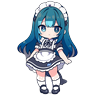
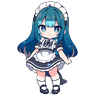
v0.10.6：修双眼颜色不一致——v0.10.5 发色映射护栏 x≤460 越界，右眼虹膜(x460-505)被当侧发染深；护栏扩至 x≤530（仅可外扩不可内收），从 _0000X_ 编号文件还原 30 张 pre-map 源图后全链重染+后处理+gap_fix；10 张抽样（3阶段×2分支×情绪）眼区 zoom 复检双眼对称；回归不涉及代码层未跑全量

diff --git a/AI立绘交接文档.md b/AI立绘交接文档.md
@@ -79,7 +79,7 @@ cd /d/AI/ComfyUI && nohup ./venv/Scripts/python.exe main.py --port 8188 > /d/AI/
 |---|---|
 | 模型/采样 | animagine-xl-3.1 / euler_ancestral / steps 30 / cfg 6.0 / clip skip 2 |
 | 尺寸 | 832×1216 |
-| 发色校正 | 成品源图 `pet_v2_deepen_hair.py`：HSV 映射（H+0.025/V×0.62/S×1.6+0.05，域=蓝区 H0.42-0.70 & V≥0.6 & S≥0.03）+ 几何保护（脸 x300-460/y240-560、围裙腰腹、尾鳍 y>770、仅发顶 y≤280 与两侧带 x≤290/x≥470 至 y≤770）；0.44 版发区 V0.99 过曝 → 映射后对齐 0.34 深藏青参考（V0.55/S0.36/H195°） |
+| 发色校正 | 成品源图 `pet_v2_deepen_hair.py`：HSV 映射（H+0.025/V×0.62/S×1.6+0.05，域=蓝区 H0.42-0.70 & V≥0.6 & S≥0.03）+ 几何保护（**脸+双眼 x300-530/y240-560**、围裙腰腹、尾鳍 y>770、仅发顶 y≤280 与两侧带 x≤290/x≥530 至 y≤770）；护栏 x≤460 曾使**右眼虹膜(x460-505)越界染深**（v0.10.6 修）→ **护栏只可向外扩不得内收**；还原源图必须用 _0000X_ 编号文件（勿在已染图上二次映射） |
 | 情绪词风格 | **直白 danbooru 标签**（smile, open mouth, blush, tears, half closed eyes, drool, star eyes）优于修饰性英文；denoise 0.44 表情可读但发色漂浅（0.34 发色好表情淡）→ 取舍：**0.44 出表情 + 源图发色映射** |
 | Base 正向 | 完整串在 pet_v2_gen.py::BASE_POSITIVE（含 whale fin shaped hair/embroidery/whale tail） |
 | 负向 | pet_v2_gen.py::BASE_NEGATIVE（bad anatomy/hands、realistic、watermark、multiple girls…） |
